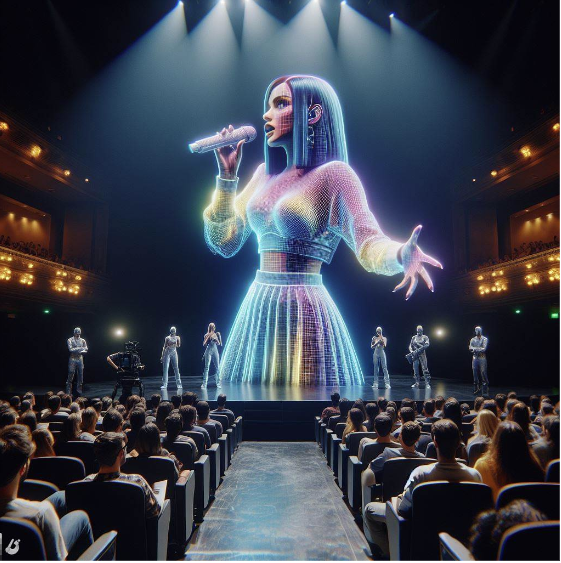
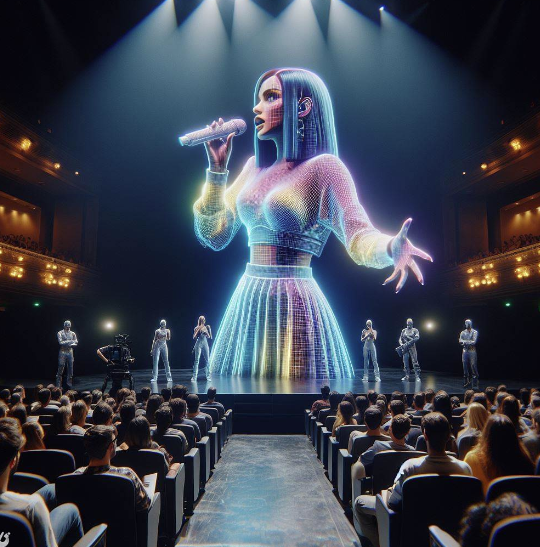
made hologram not look wak & made action of payform to just only example.com

diff --git a/pages/payForm.html b/pages/payForm.html
@@ -20,7 +20,7 @@
     <!--under this is the Form-->
     <main>
                         <!--the Action should be replaced with where you want to send Form info to-->
-        <form class="payment" method="post" action="http://www.example.com/form/submit">
+        <form class="payment" method="post" action="http://www.example.com">
             <div class="formTicket">
                 <div class="Left Half">
                     <div class="event">
